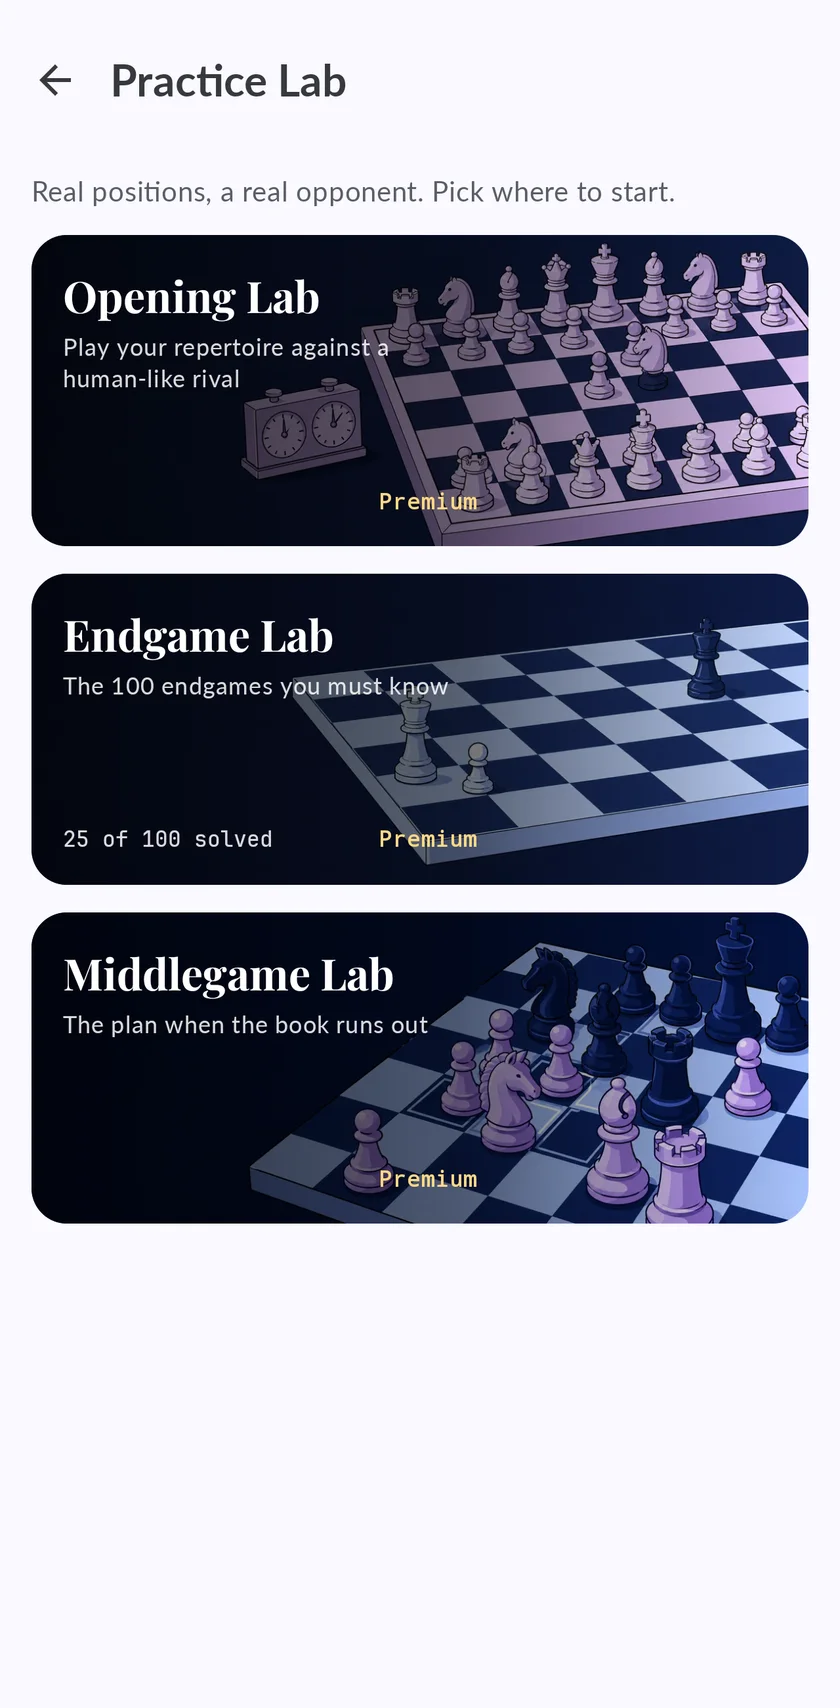
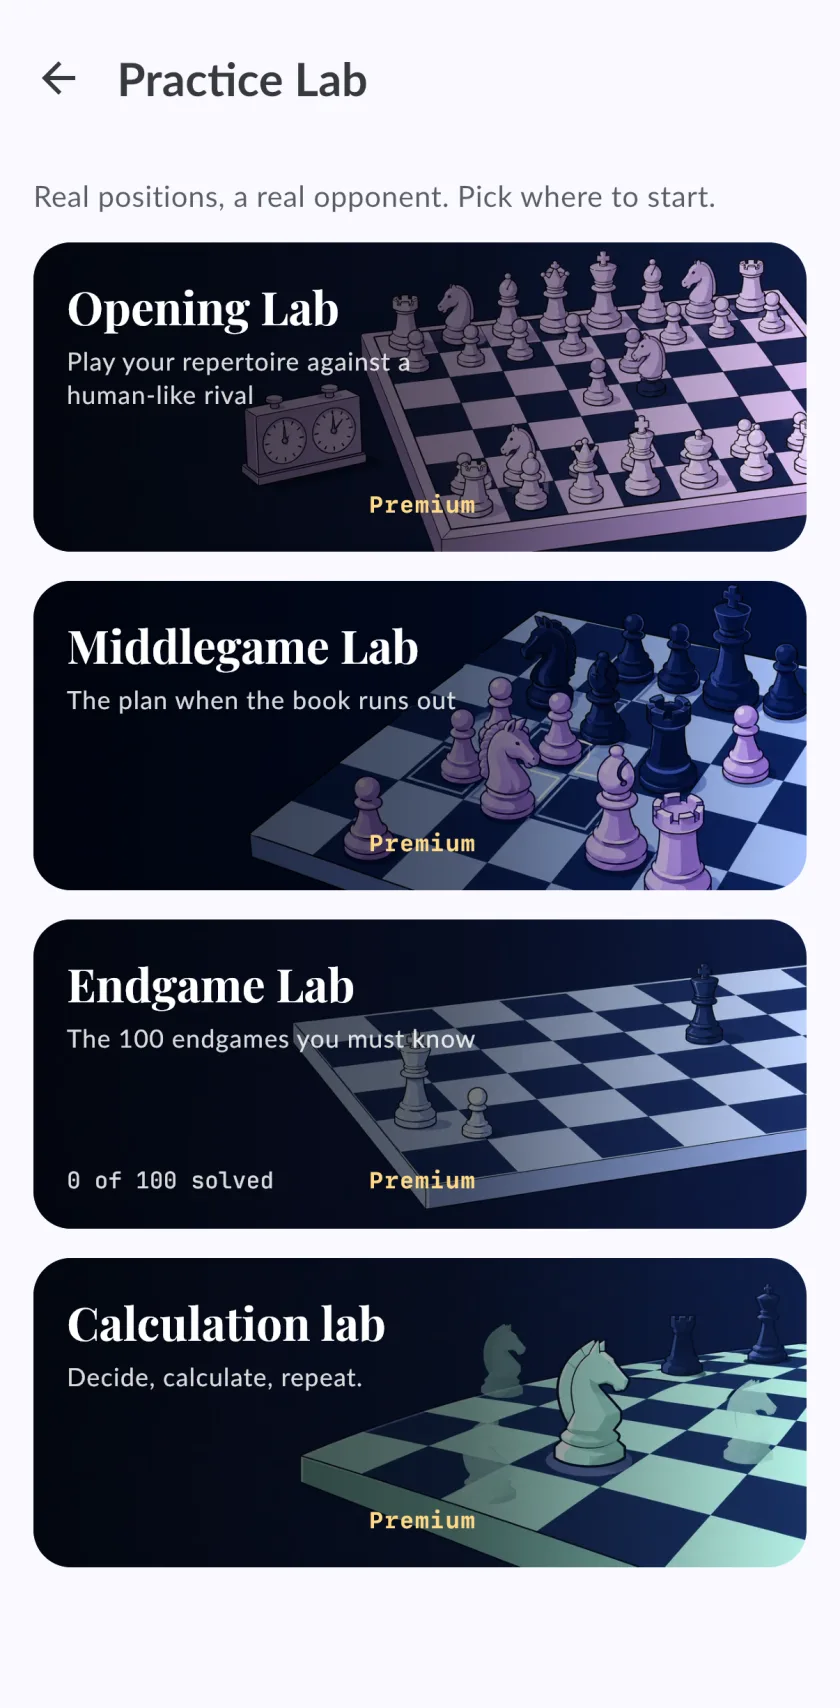
cheescoach: the Calculation Lab and Practice get their section; middlegame lab and Advanced course are open

diff --git a/cheescoach/index.html b/cheescoach/index.html
@@ -4,7 +4,7 @@
     <meta charset="UTF-8">
     <meta name="viewport" content="width=device-width, initial-scale=1.0">
     <title>CheesCoach — the chess app that explains your moves</title>
-    <meta name="description" content="Play, then find out what went wrong. Stockfish, Caissa and Maia do the calculating on your device; an AI coach turns it into a sentence you can use. Openings, middlegames and endgames on iPhone, iPad and Android.">
+    <meta name="description" content="Play, then find out what went wrong. Stockfish, Caissa and Maia do the calculating on your device; an AI coach turns it into a sentence you can use. Openings, middlegames, endgames and calculation on iPhone, iPad and Android.">
     <meta name="author" content="JuanfranDevs">
     <meta name="theme-color" content="#080D1A">
 
@@ -257,13 +257,13 @@
             <div>
                 <span class="eyebrow" data-en="Practice Lab" data-es="Laboratorio">Practice Lab</span>
                 <h2 data-en="A game has three parts. So does the training." data-es="Una partida tiene tres partes. El entrenamiento también.">A game has three parts. So does the training.</h2>
-                <p class="lede" data-en="Not a pile of exercises. Three labs, one for each phase of the game, each with the same shape: learn the idea first, then play it out against an opponent that will punish you for getting it wrong." data-es="No es un montón de ejercicios. Tres laboratorios, uno por cada fase de la partida, y todos con la misma forma: primero aprendes la idea y después la juegas contra un rival que te castiga si la haces mal.">
-                    Not a pile of exercises. Three labs, one for each phase of the game, each with the same shape: learn the idea first, then play it out against an opponent that will punish you for getting it wrong.
+                <p class="lede" data-en="Not a pile of exercises. Three labs, one for each phase of the game, each with the same shape: learn the idea first, then play it out against an opponent that will punish you for getting it wrong. And a fourth for the skill all three depend on: calculation." data-es="No es un montón de ejercicios. Tres laboratorios, uno por cada fase de la partida, y todos con la misma forma: primero aprendes la idea y después la juegas contra un rival que te castiga si la haces mal. Y un cuarto para lo que necesitan los tres: el cálculo.">
+                    Not a pile of exercises. Three labs, one for each phase of the game, each with the same shape: learn the idea first, then play it out against an opponent that will punish you for getting it wrong. And a fourth for the skill all three depend on: calculation.
                 </p>
-                <p class="premium-tag" style="margin-top: var(--space-6);" data-en="The three labs are Premium. The Italian Game in the opening trainer, and the first middlegame exercise, are free." data-es="Los tres laboratorios son Premium. La Italiana en el entrenador de aperturas y el primer ejercicio de medio juego son gratis.">The three labs are Premium. The Italian Game in the opening trainer, and the first middlegame exercise, are free.</p>
+                <p class="premium-tag" style="margin-top: var(--space-6);" data-en="The four labs are Premium. Free to try: the Italian Game in the opening trainer, the first middlegame exercise, and the first ten positions of each calculation set." data-es="Los cuatro laboratorios son Premium. Para probar, gratis: la Italiana en el entrenador de aperturas, el primer ejercicio de medio juego y las diez primeras posiciones de cada set de cálculo.">The four labs are Premium. Free to try: the Italian Game in the opening trainer, the first middlegame exercise, and the first ten positions of each calculation set.</p>
             </div>
             <div>
-                <div class="phone phone-crop" style="max-width: 17rem; margin-left: auto;"><img src="images/screens/lab-hub.webp" alt="The Practice Lab screen with three cards: Opening Lab, Endgame Lab and Middlegame Lab" data-en-alt="The Practice Lab screen with three cards: Opening Lab, Endgame Lab and Middlegame Lab" data-es-alt="La pantalla del Laboratorio con tres tarjetas: aperturas, finales y medio juego" width="840" height="1708" loading="lazy"></div>
+                <div class="phone" style="max-width: 17rem; margin-left: auto;"><img src="images/screens/lab-hub.webp" alt="The Practice Lab screen with four cards: Opening Lab, Middlegame Lab, Endgame Lab and Calculation Lab" data-en-alt="The Practice Lab screen with four cards: Opening Lab, Middlegame Lab, Endgame Lab and Calculation Lab" data-es-alt="La pantalla del Laboratorio con cuatro tarjetas: aperturas, medio juego, finales y cálculo" width="840" height="1708" loading="lazy"></div>
             </div>
         </div>
     </div>
@@ -320,10 +320,7 @@
         <div class="act-inner">
             <div>
                 <p class="act-num"><span data-en="II — The middlegame" data-es="II — El medio juego">II — The middlegame</span></p>
-                <h2>
-                    <span data-en="The plan when the book runs out" data-es="El plan cuando se acaba el libro">The plan when the book runs out</span>
-                    <span class="soon" data-en="Coming soon" data-es="Próximamente">Coming soon</span>
-                </h2>
+                <h2 data-en="The plan when the book runs out" data-es="El plan cuando se acaba el libro">The plan when the book runs out</h2>
                 <p class="lede" data-en="Move fifteen, the theory is over and nobody taught you what to do next. The Middlegame Lab goes by pawn structure: the Carlsbad, the Benoni, the French chain and twenty-two more, each with its theory, the plan for both sides, and positions from real games where you name the structure and then carry the plan out." data-es="Jugada quince, se acabó la teoría y nadie te enseñó qué hacer después. El Laboratorio de medio juego va por estructuras de peones: la Carlsbad, la Benoni, la cadena francesa y veintidós más, cada una con su teoría, el plan de cada bando y posiciones de partidas reales donde nombras la estructura y luego llevas el plan a cabo.">
                     Move fifteen, the theory is over and nobody taught you what to do next. The Middlegame Lab goes by pawn structure: the Carlsbad, the Benoni, the French chain and twenty-two more, each with its theory, the plan for both sides, and positions from real games where you name the structure and then carry the plan out.
                 </p>
@@ -344,8 +341,6 @@
                         <span class="half-count">1000 <span data-en="positions" data-es="posiciones">positions</span></span>
                     </div>
                 </div>
-
-                <p class="caveat" style="margin-top: var(--space-6);" data-en="Written and playable. The app still shows it as coming soon, and that is the truth: it opens once the first exercises have been through a round of testing." data-es="Escrito y jugable. La app todavía lo marca como próximamente, y eso es lo cierto: se abre cuando los primeros ejercicios pasen una ronda de pruebas.">Written and playable. The app still shows it as coming soon, and that is the truth: it opens once the first exercises have been through a round of testing.</p>
             </div>
 
             <div class="act-shots">
@@ -407,6 +402,50 @@
 </section>
 
 
+<!-- ========== ACROSS ALL THREE — CALCULATION ========== -->
+<section class="act act-rev act-ice" id="calculation">
+    <div class="container">
+        <div class="act-inner">
+            <div>
+                <p class="act-num"><span data-en="In all three — Calculation" data-es="En las tres — El cálculo">In all three — Calculation</span></p>
+                <h2 data-en="See it at a glance, not after ten minutes" data-es="Verlo de un vistazo, no a los diez minutos">See it at a glance, not after ten minutes</h2>
+                <p class="lede" data-en="Opening, middlegame or endgame, every game comes down to a position where you have to work out the move. The Calculation Lab trains that in two ways: decisions you read, calculate and then play out, and fast drills that keep coming back until you see the answer without thinking." data-es="Apertura, medio juego o final: toda partida acaba en una posición donde hay que sacar la jugada. El Laboratorio de cálculo lo entrena de dos formas: decisiones que lees, calculas y después juegas, y ejercicios rápidos que vuelven una y otra vez hasta que ves la respuesta sin pensarla.">
+                    Opening, middlegame or endgame, every game comes down to a position where you have to work out the move. The Calculation Lab trains that in two ways: decisions you read, calculate and then play out, and fast drills that keep coming back until you see the answer without thinking.
+                </p>
+
+                <div class="act-art">
+                    <img src="images/app/lab_calculation.webp" alt="" width="1200" height="480" loading="lazy">
+                </div>
+
+                <div class="act-halves">
+                    <div class="half">
+                        <h3 data-en="Decision trainer" data-es="Entrenador de decisiones">Decision trainer</h3>
+                        <p data-en="Read the position, calculate, decide. Then play your line out and see if it holds." data-es="Lee la posición, calcula y decide. Después juega tu línea y comprueba si aguanta.">Read the position, calculate, decide. Then play your line out and see if it holds.</p>
+                        <span class="half-count">149 <span data-en="exercises, by theme" data-es="ejercicios, por temática">exercises, by theme</span></span>
+                    </div>
+                    <div class="half">
+                        <h3 data-en="Practise" data-es="Practicar">Practise</h3>
+                        <p data-en="The Woodpecker method: four arrows, one best move. The same set in seven cycles, four weeks, then two, one… down to a single day. Misses come back for review." data-es="El método del pájaro carpintero: cuatro flechas y una es la mejor. El mismo set en siete ciclos, cuatro semanas, luego dos, una… hasta un solo día. Los fallos vuelven a repaso.">The Woodpecker method: four arrows, one best move. The same set in seven cycles, four weeks, then two, one… down to a single day. Misses come back for review.</p>
+                        <span class="half-count">2 <span data-en="sets of 150 positions" data-es="sets de 150 posiciones">sets of 150 positions</span></span>
+                    </div>
+                </div>
+            </div>
+
+            <div class="act-shots">
+                <div>
+                    <div class="phone"><img src="images/screens/woodpecker-session.webp" alt="A Practice position: four numbered arrows on the board and the question Which is the best move?, with the four candidate moves listed below" data-en-alt="A Practice position: four numbered arrows on the board and the question Which is the best move?, with the four candidate moves listed below" data-es-alt="Una posición de Practicar: cuatro flechas numeradas sobre el tablero y la pregunta ¿Cuál es la mejor jugada?, con las cuatro candidatas debajo" width="840" height="1708" loading="lazy"></div>
+                    <p class="phone-caption" data-en="Four arrows. Only one is best." data-es="Cuatro flechas. Solo una es la mejor.">Four arrows. Only one is best.</p>
+                </div>
+                <div>
+                    <div class="phone"><img src="images/screens/woodpecker.webp" alt="The Practice screen with the Openings and Middlegame sets, each showing its current cycle and a track of seven cycles from 28 days down to one" data-en-alt="The Practice screen with the Openings and Middlegame sets, each showing its current cycle and a track of seven cycles from 28 days down to one" data-es-alt="La pantalla de Practicar con los sets de aperturas y de medio juego, cada uno con su ciclo actual y una pista de siete ciclos de 28 días a uno" width="840" height="1708" loading="lazy"></div>
+                    <p class="phone-caption" data-en="Seven cycles, from 28 days to one" data-es="Siete ciclos, de 28 días a uno">Seven cycles, from 28 days to one</p>
+                </div>
+            </div>
+        </div>
+    </div>
+</section>
+
+
 <!-- ========== COURSES ========== -->
 <section class="band band-paper" id="courses">
     <div class="container">
@@ -414,8 +453,8 @@
             <div>
                 <span class="eyebrow" data-en="Courses" data-es="Cursos">Courses</span>
                 <h2 data-en="If you'd rather be told where to start" data-es="Si prefieres que te digan por dónde empezar">If you'd rather be told where to start</h2>
-                <p class="lede" data-en="A ladder of guided courses, 164 lessons so far, each one a mix of theory, puzzles, an opening to learn and a game against a bot you have to win to move on. The first level teaches the rules from scratch and is free." data-es="Una escalera de cursos guiados, 164 lecciones por ahora, cada una con su teoría, sus puzzles, una apertura que aprender y una partida contra un bot que tienes que ganar para seguir. El primer nivel enseña las reglas desde cero y es gratis.">
-                    A ladder of guided courses, 164 lessons so far, each one a mix of theory, puzzles, an opening to learn and a game against a bot you have to win to move on. The first level teaches the rules from scratch and is free.
+                <p class="lede" data-en="A ladder of guided courses, 303 lessons, each one a mix of theory, puzzles, an opening to learn and a game against a bot you have to win to move on. The first level teaches the rules from scratch and is free." data-es="Una escalera de cursos guiados, 303 lecciones, cada una con su teoría, sus puzzles, una apertura que aprender y una partida contra un bot que tienes que ganar para seguir. El primer nivel enseña las reglas desde cero y es gratis.">
+                    A ladder of guided courses, 303 lessons, each one a mix of theory, puzzles, an opening to learn and a game against a bot you have to win to move on. The first level teaches the rules from scratch and is free.
                 </p>
 
                 <div class="ladder">
@@ -437,11 +476,11 @@
                         <p data-en="Strategy, structures and the endgames that decide games." data-es="Estrategia, estructuras y los finales que deciden partidas.">Strategy, structures and the endgames that decide games.</p>
                         <span class="rung-elo" data-en="91 lessons, 1000&ndash;1500" data-es="91 lecciones, 1000&ndash;1500">91 lessons, 1000&ndash;1500</span>
                     </article>
-                    <article class="rung" data-state="soon">
+                    <article class="rung">
                         <span class="rung-level">Level 04</span>
                         <h3 data-en="Advanced" data-es="Avanzado">Advanced</h3>
                         <p data-en="Calculation and long plans." data-es="Cálculo y planes largos.">Calculation and long plans.</p>
-                        <span class="rung-elo" data-en="1500&ndash;2000, coming soon" data-es="1500&ndash;2000, próximamente">1500&ndash;2000, coming soon</span>
+                        <span class="rung-elo" data-en="139 lessons, 1500&ndash;2000" data-es="139 lecciones, 1500&ndash;2000">139 lessons, 1500&ndash;2000</span>
                     </article>
                 </div>
             </div>
